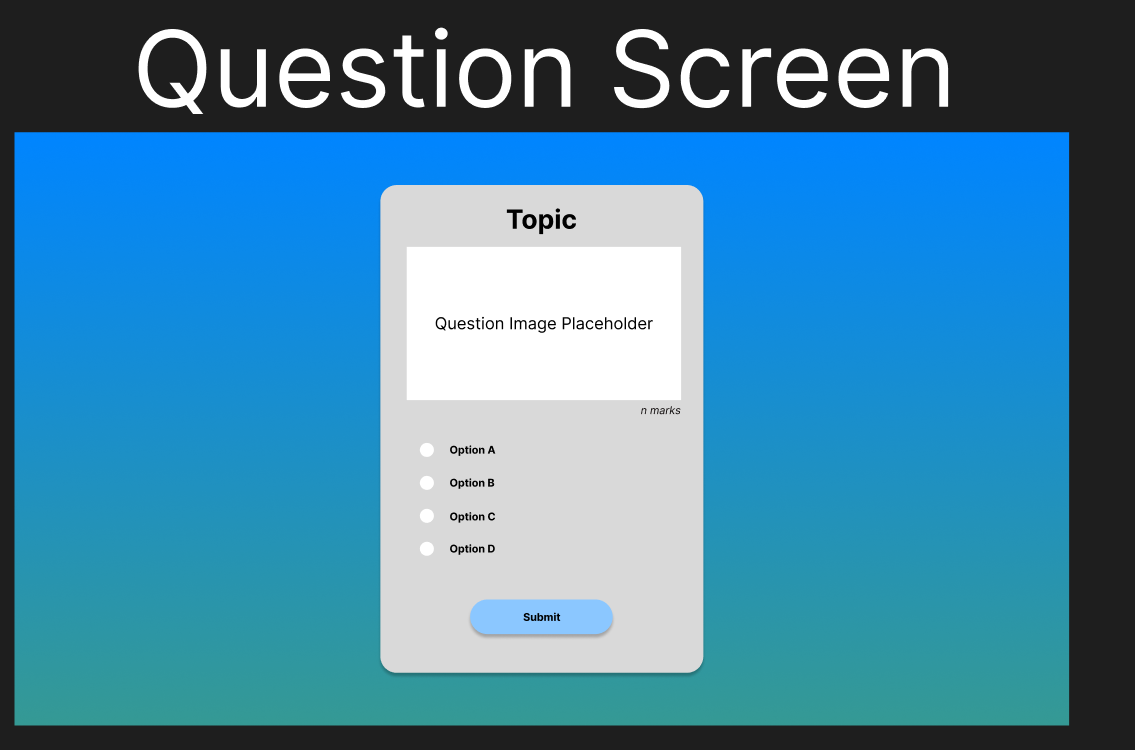
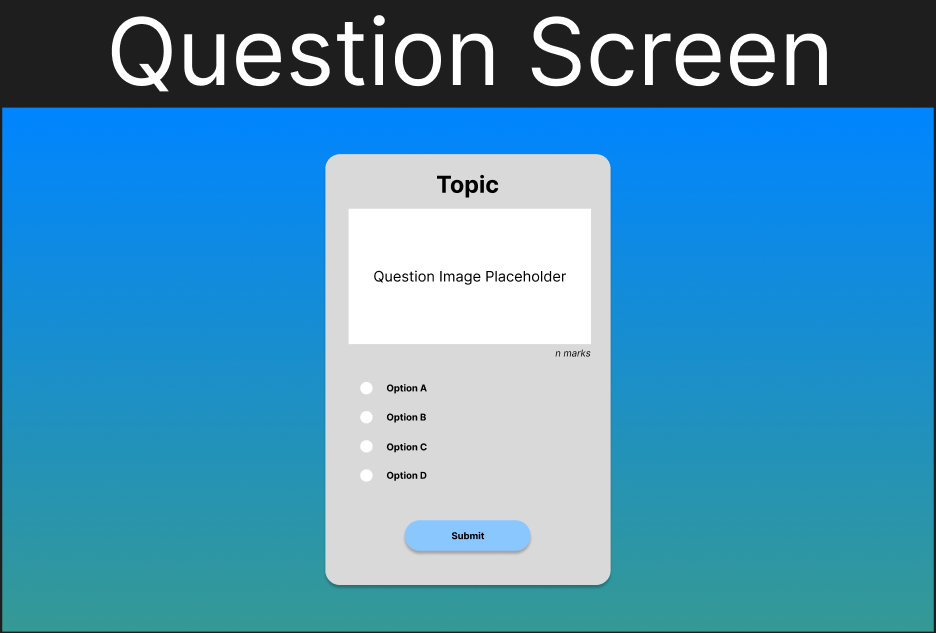
Added To Requirements Analysis

Changed region(s): [[0.0, 0.03, 1.0, 1.0], [0.3098, 0.2401, 0.6506, 0.9305]]

diff --git a/documents/interim_report.tex b/documents/interim_report.tex
@@ -503,17 +503,22 @@ For all subjects, topics and qualifications - it is possible to add them to the 
 \chapter{Software Engineering}
 
 \section{Methodology}
-There are many different approaches when it comes to Software Development. The Waterfall model for example focuses on completing phases of the project at a time, i.e. requirements first, then design and implementation etc. For me this approach is very strict - as it requires myself as the developer to consider the application as a whole from the very beginning, when the requirements of the product are continuously evolving as development ensues.\\
-
-Another example of a development approach can be Rapid Application Development. This approach focuses more on developing components in parallel to each other, prioritizing speed over completion of features. Though it closely aligns with my current development approach - it is also unsuitable as it requires components to be integrated to the system as a later date, as opposed to during the development process.\\
+There are many different approaches when it comes to Software Development. The Waterfall model for example focuses on completing phases of the project at a time, i.e. requirements first, then design and implementation etc. For me this approach is very strict - as it requires myself as the developer to consider the application as a whole from the very beginning, when the requirements of the product are continuously evolving as development ensues. Another example of a development approach can be Rapid Application Development. This approach focuses more on developing components in parallel to each other, prioritizing speed over completion of features. Though it closely aligns with my current development approach - it is also unsuitable as it requires components to be integrated to the system as a later date, as opposed to during the development process.\\
 
 As a result, I have chosen to develop this application by following a combination of the Agile and Incremental Approaches. The Incremental Approach allows me to focus on developing one feature at a time - ensuring that it's working to the fullest before I move my focus onto the next feature in sequence. The Agile Approach here relates to the flexibility that I am giving myself; there is no dedicated client for this product, so I am able to develop features at my own pace and alternate between different features as I wish to. At the same time, I am then able to revisit features if I am required to make any additions following its completion - given the ongoing flexibility in requirements. This can be referred to as similar vertical slicing - wherein the application is developed component by component - and ultimately expands from these components as a dependency.
 
 \section{Requirements Analysis}
 
-It is important to carry out a requirements analysis at the start of product development in order to gain an idea of the features which are to be developed. By following a vertical slicing approach, these requirements are constantly developing as the product is developed. Despite that, the original concept for this project stemmed from a design I had made several months ago for the question page, which contained a placeholder for a question image followed by four possible answers. 
+The Requirements Analysis is an ongoing phase - changing if required as the product evolves. Following this approach leaves me with the flexibility to revisit components if I am required to add a feature which I had not have included in the first place, unaware at the time of it's use. Despite that, this application has been an idea for several months, and I had drafted a design for how the questions could be presented to students.
 
-\includegraphics[scale=0.5]{question-concept}
+\begin{center}
+\includegraphics[scale=0.4]{question-concept}
+\captionof{figure}{The original design for the question screen did not include the background, this came at a later date when designing for the rest of the application began.}
+\end{center}
+
+However, by following a vertical slicing approach it did not make sense for me to begin with implementing the question screen in the beginning, as there were a multitude of other features that were to be added in the lead up to this. This led to me beginning with the user registration system, as it did not have any prior requirements. From there, subsequent features fell into place - based on how the user would interact with the system typically. This would be from account registration, to logging in, viewing their dashboard before searching for their subjects and later topics. 
+
+
 \section{UML Diagrams}
 \section{Testing}
 
